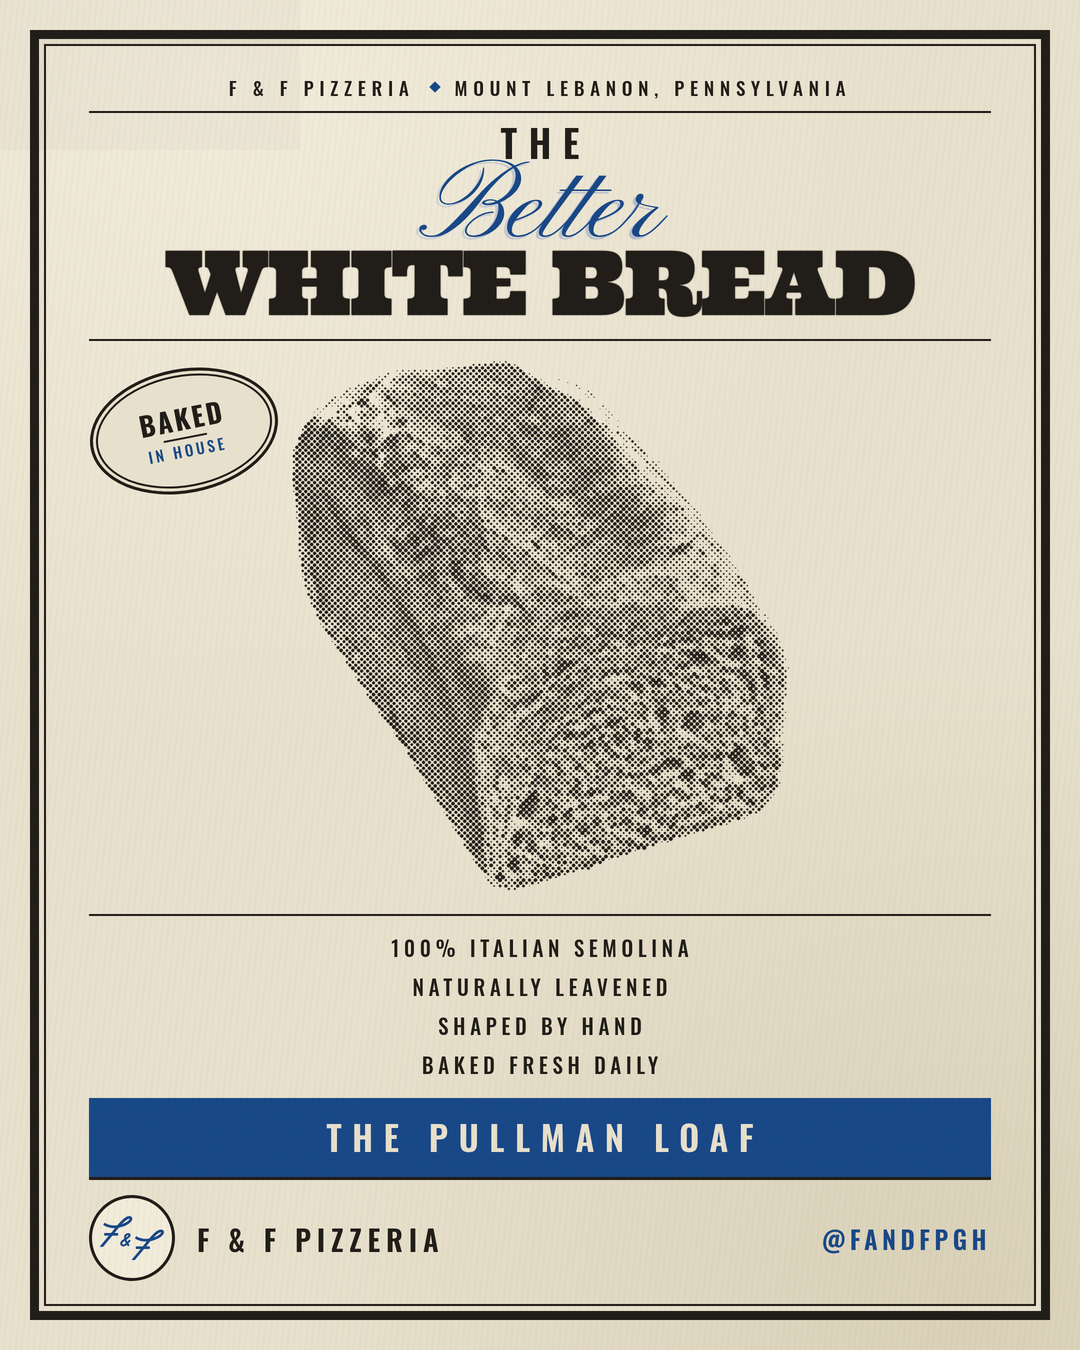
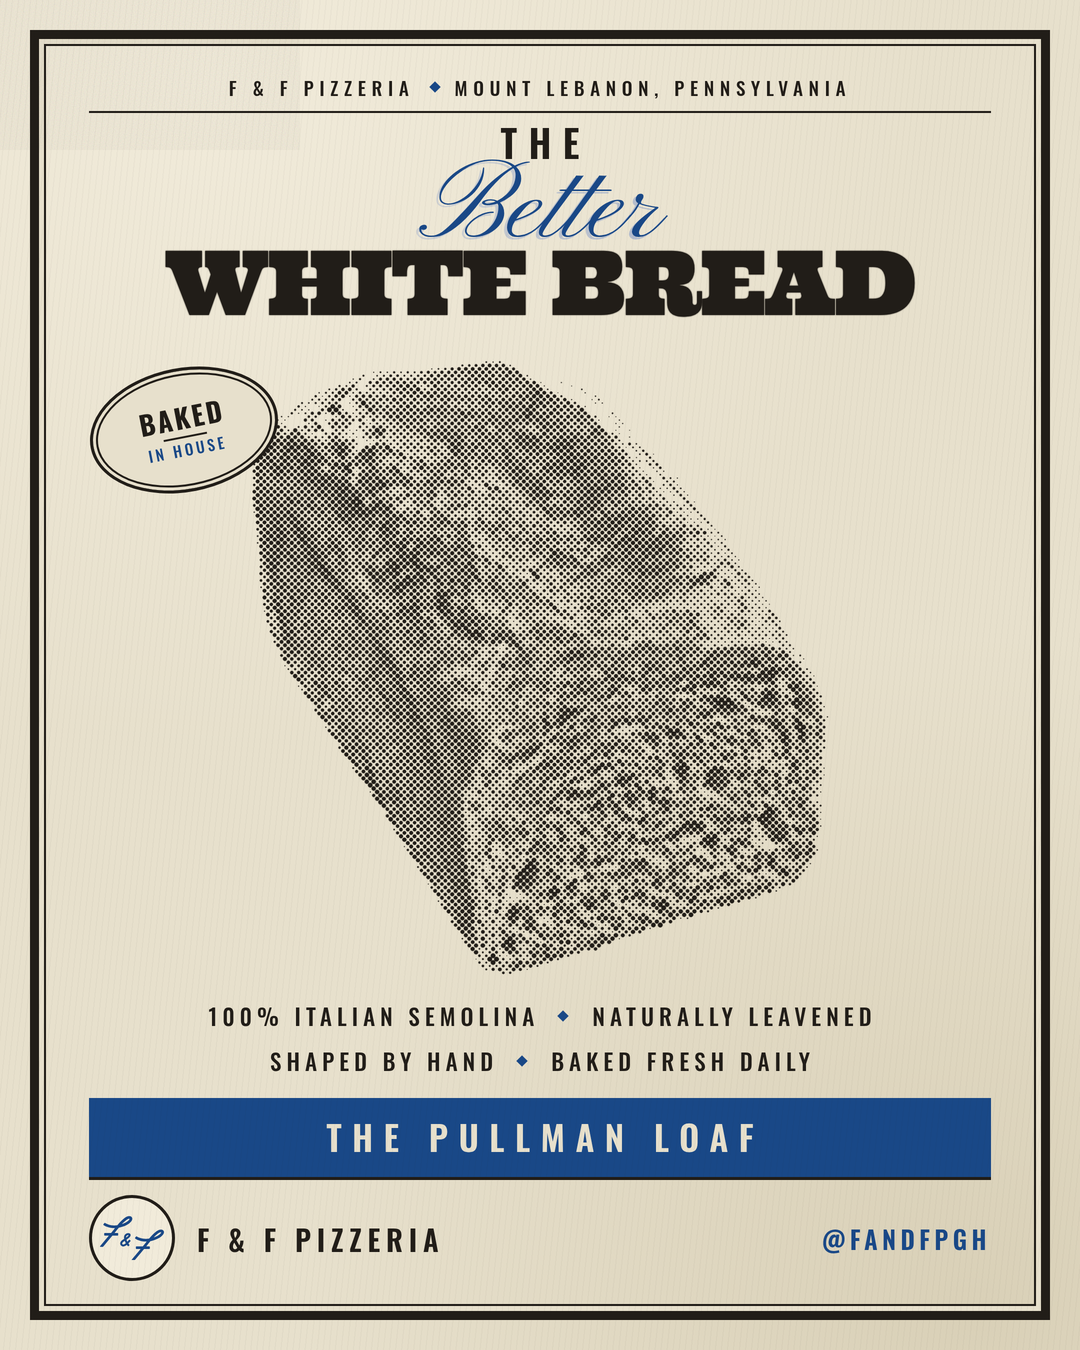
Open the loaf out: drop its two rules, pair the copy lines
- Removed the rules above and below the loaf, so it sits on open paper.
- The four specification lines are paired onto two, split by the brand
  lozenge already used in the dateline.
- Both changes freed vertical space, which the loaf took automatically since
  it sizes to the flex remainder. Re-spaced above and below it so it isn't
  crowding the headline or the specs.

Claude-Session: https://claude.ai/code/session_011dxmmrtFmZtj58y9PcS9Yj

Changed region(s): [[0.0917, 0.2489, 0.825, 0.8089], [0.1528, 0.2489, 0.2139, 0.28]]

diff --git a/social/pullman-loaf/ff-pullman-post-blue.html b/social/pullman-loaf/ff-pullman-post-blue.html
@@ -133,7 +133,7 @@
 
   /* ---- headline stack ------------------------------------------------ */
   .hero{ flex:none; text-align:center; padding-top:10px;
-         padding-bottom:15px; border-bottom:2px solid var(--ink); }
+         padding-bottom:6px; }
   .hero .kicker{
     font-family:"Oswald","Arial Narrow",sans-serif;
     font-weight:600; font-size:38px; line-height:1;
@@ -158,7 +158,7 @@
   /* ---- product ------------------------------------------------------- */
   .plate{
     flex:1 1 auto; min-height:0; position:relative;
-    margin-top:14px;
+    margin-top:24px;
   }
   .loaf{
     position:absolute; inset:0;
@@ -184,14 +184,15 @@
 
   /* ---- specification panel ------------------------------------------- */
   .specs{
-    flex:none; display:flex; flex-direction:column; align-items:center; gap:8px;
-    margin-top:18px; padding-top:16px; padding-bottom:4px;
-    border-top:2px solid var(--ink);
+    flex:none; display:flex; flex-direction:column; align-items:center; gap:11px;
+    margin-top:18px; padding-bottom:6px;
     font-family:"Oswald","Arial Narrow",sans-serif;
-    font-weight:500; font-size:21px; letter-spacing:.22em;
-    text-indent:.22em;                       /* indent re-centres the tracking */
-    text-transform:uppercase; text-align:center; color:var(--ink);
+    font-weight:500; font-size:23px; letter-spacing:.22em;
+    text-transform:uppercase; color:var(--ink);
   }
+  .specs .row{ display:flex; align-items:center; justify-content:center; gap:20px; }
+  .specs .row span{ text-indent:.22em; }     /* indent offsets the trailing track */
+  .specs .row i{ width:8px; height:8px; flex:none; rotate:45deg; background:var(--brand); }
 
   /* ---- reversed product slab ----------------------------------------- */
   .slab{
@@ -261,10 +262,8 @@
       </div>
 
       <div class="specs">
-        <span>100% Italian semolina</span>
-        <span>Naturally leavened</span>
-        <span>Shaped by hand</span>
-        <span>Baked fresh daily</span>
+        <div class="row"><span>100% Italian semolina</span><i></i><span>Naturally leavened</span></div>
+        <div class="row"><span>Shaped by hand</span><i></i><span>Baked fresh daily</span></div>
       </div>
 
       <div class="slab">The Pullman Loaf</div>

diff --git a/social/pullman-loaf/ff-pullman-post.html b/social/pullman-loaf/ff-pullman-post.html
@@ -133,7 +133,7 @@
 
   /* ---- headline stack ------------------------------------------------ */
   .hero{ flex:none; text-align:center; padding-top:10px;
-         padding-bottom:15px; border-bottom:2px solid var(--ink); }
+         padding-bottom:6px; }
   .hero .kicker{
     font-family:"Oswald","Arial Narrow",sans-serif;
     font-weight:600; font-size:38px; line-height:1;
@@ -158,7 +158,7 @@
   /* ---- product ------------------------------------------------------- */
   .plate{
     flex:1 1 auto; min-height:0; position:relative;
-    margin-top:14px;
+    margin-top:24px;
   }
   .loaf{
     position:absolute; inset:0;
@@ -184,14 +184,15 @@
 
   /* ---- specification panel ------------------------------------------- */
   .specs{
-    flex:none; display:flex; flex-direction:column; align-items:center; gap:8px;
-    margin-top:18px; padding-top:16px; padding-bottom:4px;
-    border-top:2px solid var(--ink);
+    flex:none; display:flex; flex-direction:column; align-items:center; gap:11px;
+    margin-top:18px; padding-bottom:6px;
     font-family:"Oswald","Arial Narrow",sans-serif;
-    font-weight:500; font-size:21px; letter-spacing:.22em;
-    text-indent:.22em;                       /* indent re-centres the tracking */
-    text-transform:uppercase; text-align:center; color:var(--ink);
+    font-weight:500; font-size:23px; letter-spacing:.22em;
+    text-transform:uppercase; color:var(--ink);
   }
+  .specs .row{ display:flex; align-items:center; justify-content:center; gap:20px; }
+  .specs .row span{ text-indent:.22em; }     /* indent offsets the trailing track */
+  .specs .row i{ width:8px; height:8px; flex:none; rotate:45deg; background:var(--brand); }
 
   /* ---- reversed product slab ----------------------------------------- */
   .slab{
@@ -261,10 +262,8 @@
       </div>
 
       <div class="specs">
-        <span>100% Italian semolina</span>
-        <span>Naturally leavened</span>
-        <span>Shaped by hand</span>
-        <span>Baked fresh daily</span>
+        <div class="row"><span>100% Italian semolina</span><i></i><span>Naturally leavened</span></div>
+        <div class="row"><span>Shaped by hand</span><i></i><span>Baked fresh daily</span></div>
       </div>
 
       <div class="slab">The Pullman Loaf</div>

diff --git a/social/pullman-loaf/tools/post.tpl.html b/social/pullman-loaf/tools/post.tpl.html
@@ -70,7 +70,7 @@
 
   /* ---- headline stack ------------------------------------------------ */
   .hero{ flex:none; text-align:center; padding-top:10px;
-         padding-bottom:15px; border-bottom:2px solid var(--ink); }
+         padding-bottom:6px; }
   .hero .kicker{
     font-family:"Oswald","Arial Narrow",sans-serif;
     font-weight:600; font-size:38px; line-height:1;
@@ -95,7 +95,7 @@
   /* ---- product ------------------------------------------------------- */
   .plate{
     flex:1 1 auto; min-height:0; position:relative;
-    margin-top:14px;
+    margin-top:24px;
   }
   .loaf{
     position:absolute; inset:0;
@@ -121,14 +121,15 @@
 
   /* ---- specification panel ------------------------------------------- */
   .specs{
-    flex:none; display:flex; flex-direction:column; align-items:center; gap:8px;
-    margin-top:18px; padding-top:16px; padding-bottom:4px;
-    border-top:2px solid var(--ink);
+    flex:none; display:flex; flex-direction:column; align-items:center; gap:11px;
+    margin-top:18px; padding-bottom:6px;
     font-family:"Oswald","Arial Narrow",sans-serif;
-    font-weight:500; font-size:21px; letter-spacing:.22em;
-    text-indent:.22em;                       /* indent re-centres the tracking */
-    text-transform:uppercase; text-align:center; color:var(--ink);
+    font-weight:500; font-size:23px; letter-spacing:.22em;
+    text-transform:uppercase; color:var(--ink);
   }
+  .specs .row{ display:flex; align-items:center; justify-content:center; gap:20px; }
+  .specs .row span{ text-indent:.22em; }     /* indent offsets the trailing track */
+  .specs .row i{ width:8px; height:8px; flex:none; rotate:45deg; background:var(--brand); }
 
   /* ---- reversed product slab ----------------------------------------- */
   .slab{
@@ -198,10 +199,8 @@
       </div>
 
       <div class="specs">
-        <span>100% Italian semolina</span>
-        <span>Naturally leavened</span>
-        <span>Shaped by hand</span>
-        <span>Baked fresh daily</span>
+        <div class="row"><span>100% Italian semolina</span><i></i><span>Naturally leavened</span></div>
+        <div class="row"><span>Shaped by hand</span><i></i><span>Baked fresh daily</span></div>
       </div>
 
       <div class="slab">The Pullman Loaf</div>

diff --git a/social/pullman-loaf/README.md b/social/pullman-loaf/README.md
@@ -28,9 +28,10 @@ Two colourways, same layout:
 
 ## Design
 
-One centred column: dateline, headline, the loaf, a four-line specification
-panel, the product slab, the signature. No divider rules, nothing flanking the
-loaf but the "Baked in House" oval.
+One centred column: dateline, headline, the loaf, two lines of specifications,
+the product slab, the signature. The only rules left are the dateline rule at
+the top and the signature rule at the bottom - the loaf sits on open paper,
+with nothing flanking it but the "Baked in House" oval.
 
 Type is Ultra (hero), Oswald (caps, specs and slabs) and Pinyon Script, which
 carries the persuading word — "Better" — and echoes the script mark. Libre
@@ -80,10 +81,10 @@ Lower `LO` for a denser loaf, smaller `CELL` for a finer screen, higher
 The four specification lines are Justin's own words and are the only body copy
 in the post:
 
-    100% Italian semolina
-    Naturally leavened
-    Shaped by hand
-    Baked fresh daily
+    100% Italian semolina  <>  Naturally leavened
+    Shaped by hand  <>  Baked fresh daily
+
+paired onto two lines and split by the brand lozenge.
 
 Only one line is not from him:
 
